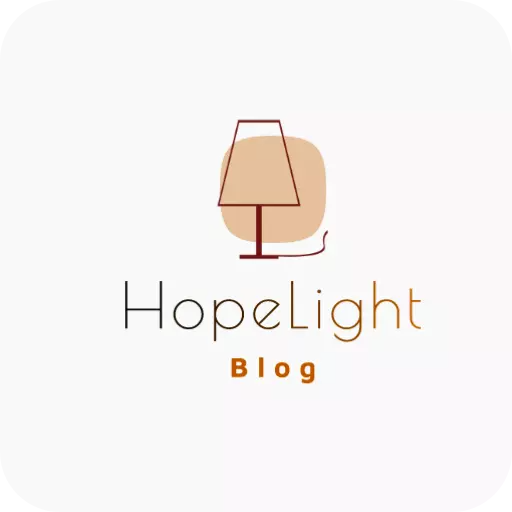
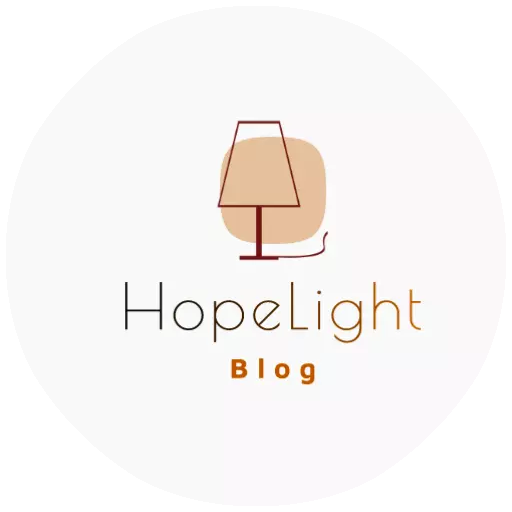
npm push

diff --git a/photo/index.html b/photo/index.html
@@ -1,0 +1,27 @@
+<<!DOCTYPE html>
+<html>
+<head>
+    <title>JcMan</title>
+    <style type="text/css">
+
+    .image1{ 
+        margin-top: 100px; 
+        width:200px; 
+        height:200px; 
+        border-radius:200px; 
+    }
+
+    .image2{
+        margin-top: 100px; 
+        width:200px; 
+        height:200px; 
+        border-radius:20px; 
+    }
+    </style>
+</head>
+<body>
+<center>
+<img class="image1" src="https://unpkg.zhimg.com/packphoto@3.0.0/photo/icon.webp"/>
+</center>
+</body>
+</html>
